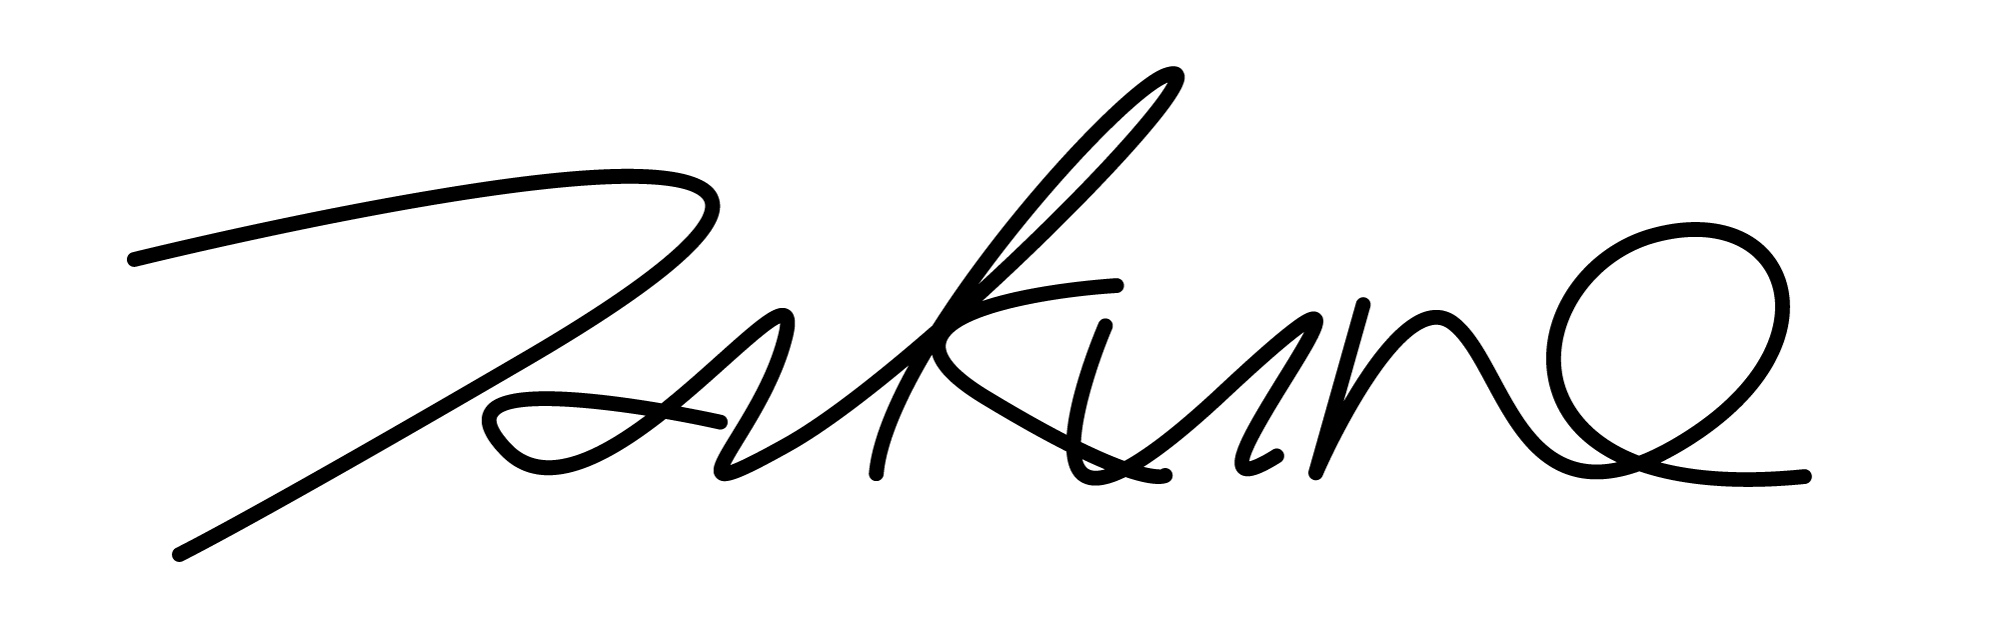
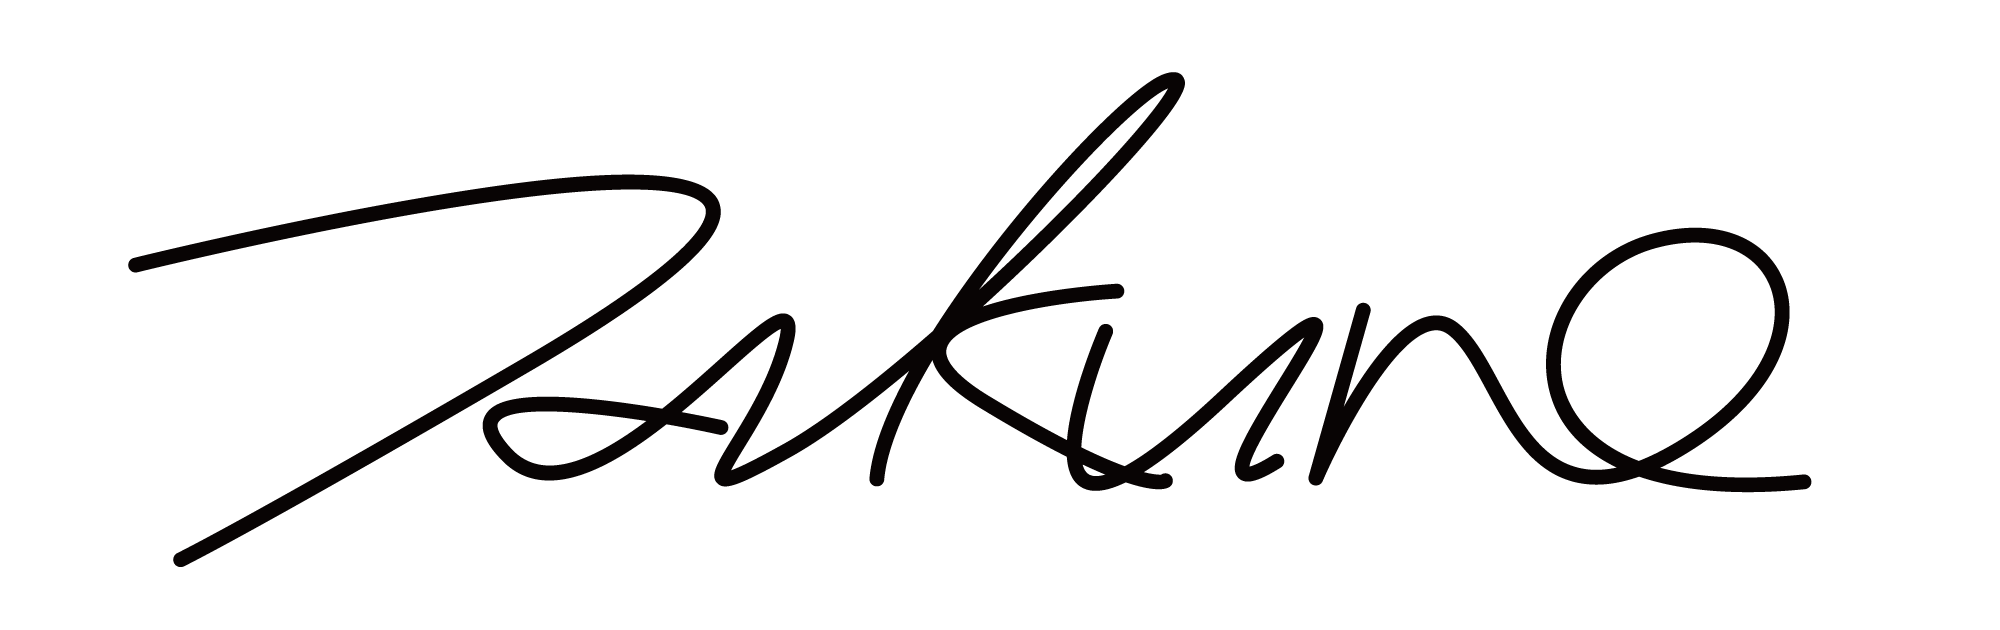
V1.00

diff --git a/components/works/WorksTagFilter/WorksTagFilter.module.css b/components/works/WorksTagFilter/WorksTagFilter.module.css
@@ -1,9 +1,8 @@
 .root {
   display: flex;
-  flex-wrap: nowrap;
-  justify-content: flex-start;
-  align-items: center;
-  column-gap: 12px;
+  flex-direction: column;
+  align-items: flex-start;
+  row-gap: 12px;
   margin-bottom: 24px;
   font-size: 16px;
   padding: 24px 0;
@@ -11,50 +10,17 @@
 
 .label {
   line-height: 1;
-  color: var(--color-text-secondary);
+  color: var(--color-text-primary);
   flex-shrink: 0;
 }
 
-.spSelectWrap {
-  position: relative;
-  flex: 1;
-  min-width: 0;
-}
-
-.select {
-  width: 100%;
-  border: 1px solid var(--color-line-subtle);
-  background: var(--color-bg-base);
-  padding: 10px 40px 10px 12px;
-  font: inherit;
-  color: var(--color-text-primary);
-  line-height: 1.2;
-  border-radius: 16px;
-  appearance: none;
-  -webkit-appearance: none;
-  -moz-appearance: none;
-  cursor: pointer;
-}
-
-.select:focus {
-  outline: none;
-}
-
-.selectIcon {
-  position: absolute;
-  top: 50%;
-  right: 12px;
-  transform: translateY(-50%);
-  display: inline-flex;
+.buttons {
+  display: flex;
+  flex-wrap: wrap;
+  justify-content: flex-start;
   align-items: center;
-  justify-content: center;
-  font-size: 20px;
-  color: var(--color-text-secondary);
-  pointer-events: none;
-}
-
-.pcButtons {
-  display: none;
+  column-gap: 20px;
+  row-gap: 12px;
 }
 
 .button,
@@ -73,30 +39,23 @@
 }
 
 .active {
-  text-decoration: underline;
+  color: var(--color-text-selected);
   text-underline-offset: 4px;
   font-weight: bold;
 }
 
 @media (min-width: 768px) {
   .root {
+    flex-direction: row;
     flex-wrap: wrap;
+    align-items: center;
     padding: 12px 0;
-    justify-content: flex-start;
     font-size: 18px;
     column-gap: 28px;
     row-gap: 10px;
   }
 
-  .spSelectWrap {
-    display: none;
-  }
-
-  .pcButtons {
-    display: flex;
-    flex-wrap: wrap;
-    justify-content: center;
-    align-items: center;
+  .buttons {
     column-gap: 28px;
     row-gap: 10px;
   }

diff --git a/components/common/Header/Header.tsx b/components/common/Header/Header.tsx
@@ -34,7 +34,7 @@ function isActive(pathname: string, href: string) {
 function navClass(active: boolean) {
   return [
     "transition-opacity hover:opacity-60",
-    active ? "font-bold underline underline-offset-4" : "font-normal",
+    active ? "font-bold text-[var(--color-text-selected)]" : "",
   ].join(" ");
 }
 
@@ -42,10 +42,38 @@ export default function Header({ siteTitle, contactEmail }: Props) {
   const pathname = usePathname();
   const router = useRouter();
   const [isOpen, setIsOpen] = useState(false);
+  const [isNavVisible, setIsNavVisible] = useState(true);
+  const [lastScrollY, setLastScrollY] = useState(0);
 
   useEffect(() => {
     setIsOpen(false);
   }, [pathname]);
+
+  useEffect(() => {
+    const handleScroll = () => {
+      const currentScrollY = window.scrollY;
+
+      if (currentScrollY < 40) {
+        setIsNavVisible(true);
+        setLastScrollY(currentScrollY);
+        return;
+      }
+
+      if (currentScrollY > lastScrollY) {
+        setIsNavVisible(false);
+      } else {
+        setIsNavVisible(true);
+      }
+
+      setLastScrollY(currentScrollY);
+    };
+
+    window.addEventListener("scroll", handleScroll, { passive: true });
+
+    return () => {
+      window.removeEventListener("scroll", handleScroll);
+    };
+  }, [lastScrollY]);
 
   const handleLogoClick = () => {
     setIsOpen(false);
@@ -77,7 +105,14 @@ export default function Header({ siteTitle, contactEmail }: Props) {
             />
           </button>
 
-          <nav className="hidden items-center gap-6 text-xs tracking-wide lg:flex lg:text-[18px]">
+          <nav
+            className={[
+              "hidden items-center gap-6 text-xs tracking-wide transition-all duration-300 ease-out lg:flex lg:text-[18px]",
+              isNavVisible
+                ? "translate-y-0 opacity-100"
+                : "-translate-y-4 opacity-0 pointer-events-none",
+            ].join(" ")}
+          >
             <Link href="/" className={navClass(isActive(pathname, "/"))}>
               ALL
             </Link>

diff --git a/components/works/WorksTagFilter/WorksTagFilter.tsx b/components/works/WorksTagFilter/WorksTagFilter.tsx
@@ -1,4 +1,3 @@
-import ExpandMoreIcon from "@mui/icons-material/ExpandMore";
 import styles from "./WorksTagFilter.module.css";
 
 type TagItem = {
@@ -17,27 +16,7 @@ export default function WorksTagFilter({ tags, activeTag, onChange }: Props) {
     <div className={styles.root}>
       <span className={styles.label}>Filters:</span>
 
-      <div className={styles.spSelectWrap}>
-        <select
-          value={activeTag}
-          onChange={(event) => onChange(event.target.value)}
-          className={styles.select}
-          aria-label="Filter works by tag"
-        >
-          <option value="all">ALL</option>
-          {tags.map((tag) => (
-            <option key={tag.id} value={tag.id}>
-              {tag.name}
-            </option>
-          ))}
-        </select>
-
-        <span className={styles.selectIcon} aria-hidden="true">
-          <ExpandMoreIcon fontSize="inherit" />
-        </span>
-      </div>
-
-      <div className={styles.pcButtons}>
+      <div className={styles.buttons}>
         <button
           type="button"
           onClick={() => onChange("all")}

diff --git a/app/layout.tsx b/app/layout.tsx
@@ -1,14 +1,15 @@
 import type { Metadata } from "next";
-import { Inter, Noto_Sans_JP } from "next/font/google";
+import { Roboto, Noto_Sans_JP } from "next/font/google";
 import Header from "@/components/common/Header/Header";
 import Footer from "@/components/common/Footer/Footer";
 import { getSettings } from "@/lib/microcms/settings";
 
 import "./globals.css";
 
-const inter = Inter({
+const roboto = Roboto({
   subsets: ["latin"],
-  variable: "--font-inter",
+  weight: ["300", "400", "500", "700"],
+  variable: "--font-roboto",
   display: "swap",
 });
 
@@ -66,7 +67,7 @@ export default async function RootLayout({
   const siteTitle = settings.siteTitle?.trim() || "Takuro Matsui";
 
   return (
-    <html lang="ja" className={`${inter.variable} ${notoSansJP.variable}`}>
+    <html lang="ja" className={`${roboto.variable} ${notoSansJP.variable}`}>
       <body className="min-h-screen antialiased">
         <div id="top" />
 

diff --git a/app/globals.css b/app/globals.css
@@ -7,12 +7,13 @@
     var(--font-noto-sans-jp), system-ui, -apple-system, "Segoe UI", Roboto,
     Helvetica, Arial, "Apple Color Emoji", "Segoe UI Emoji";
   --font-en:
-    var(--font-inter), system-ui, -apple-system, "Segoe UI", Roboto, Helvetica,
+    var(--font-roboto), system-ui, -apple-system, "Segoe UI", Roboto, Helvetica,
     Arial, "Apple Color Emoji", "Segoe UI Emoji";
 
-  --color-text-primary: #2e2e2e;
-  --color-text-secondary: #444444;
+  --color-text-primary: #000;
+  --color-text-secondary: #444;
   --color-text-muted: #6b6b6b;
+  --color-text-selected: #00d600;
   --color-bg-base: #ffffff;
   --color-bg-subtle: #f5f5f5;
   --color-line-subtle: #e5e5e5;
@@ -22,6 +23,7 @@ html,
 body {
   font-family: var(--font-en);
   color: var(--color-text-primary);
+  font-weight: 500;
   background: var(--color-bg-base);
 }
 

diff --git a/components/common/BackToTopButton/BackToTopButton.tsx b/components/common/BackToTopButton/BackToTopButton.tsx
@@ -1,7 +1,7 @@
 "use client";
 
 import { useEffect, useState } from "react";
-import KeyboardArrowUpIcon from "@mui/icons-material/ArrowUpward";
+import KeyboardArrowUpIcon from "@mui/icons-material/KeyboardArrowUp";
 
 export default function BackToTopButton() {
   const [visible, setVisible] = useState(false);
@@ -25,11 +25,10 @@ export default function BackToTopButton() {
         onClick={() => {
           window.scrollTo({ top: 0, behavior: "smooth" });
         }}
-        className="flex flex-col items-center gap-1 text-xs text-[var(--color-text-muted)] hover:text-[var(--color-text-primary)] transition-colors"
+        className="flex flex-col items-center gap-1 text-xs text-[var(--color-text-muted)] transition-colors"
         aria-label="Back to top"
       >
-        <KeyboardArrowUpIcon fontSize="small" />
-        <span>TOP</span>
+        <KeyboardArrowUpIcon fontSize="medium" />
       </button>
     </div>
   );

diff --git a/components/works/WorksGrid/WorksGrid.module.css b/components/works/WorksGrid/WorksGrid.module.css
@@ -27,17 +27,17 @@
 
 .masonryGrid {
   display: flex;
-  margin-left: -24px;
+  margin-left: -16px;
   width: auto;
 }
 
 .masonryColumn {
-  padding-left: 24px;
+  padding-left: 16px;
   background-clip: padding-box;
 }
 
 .item {
-  margin-bottom: 24px;
+  margin-bottom: 16px;
 }
 
 @media (min-width: 768px) {

diff --git a/components/common/Footer/Footer.tsx b/components/common/Footer/Footer.tsx
@@ -19,7 +19,7 @@ export default async function Footer() {
   const instagramHref = settings.instagramUrl?.trim();
 
   return (
-    <footer className="mt-24 pt-12 pb-10 bg-[#111] text-[#eaeaea] border-t border-white/10">
+    <footer className="mt-24 pt-12 pb-10 bg-[#000] text-[#eaeaea] border-t border-white/10">
       <BackToTopButton />
 
       <div className="px-4 sm:px-6 text-center text-sm sm:text-[16px] text-white/60">